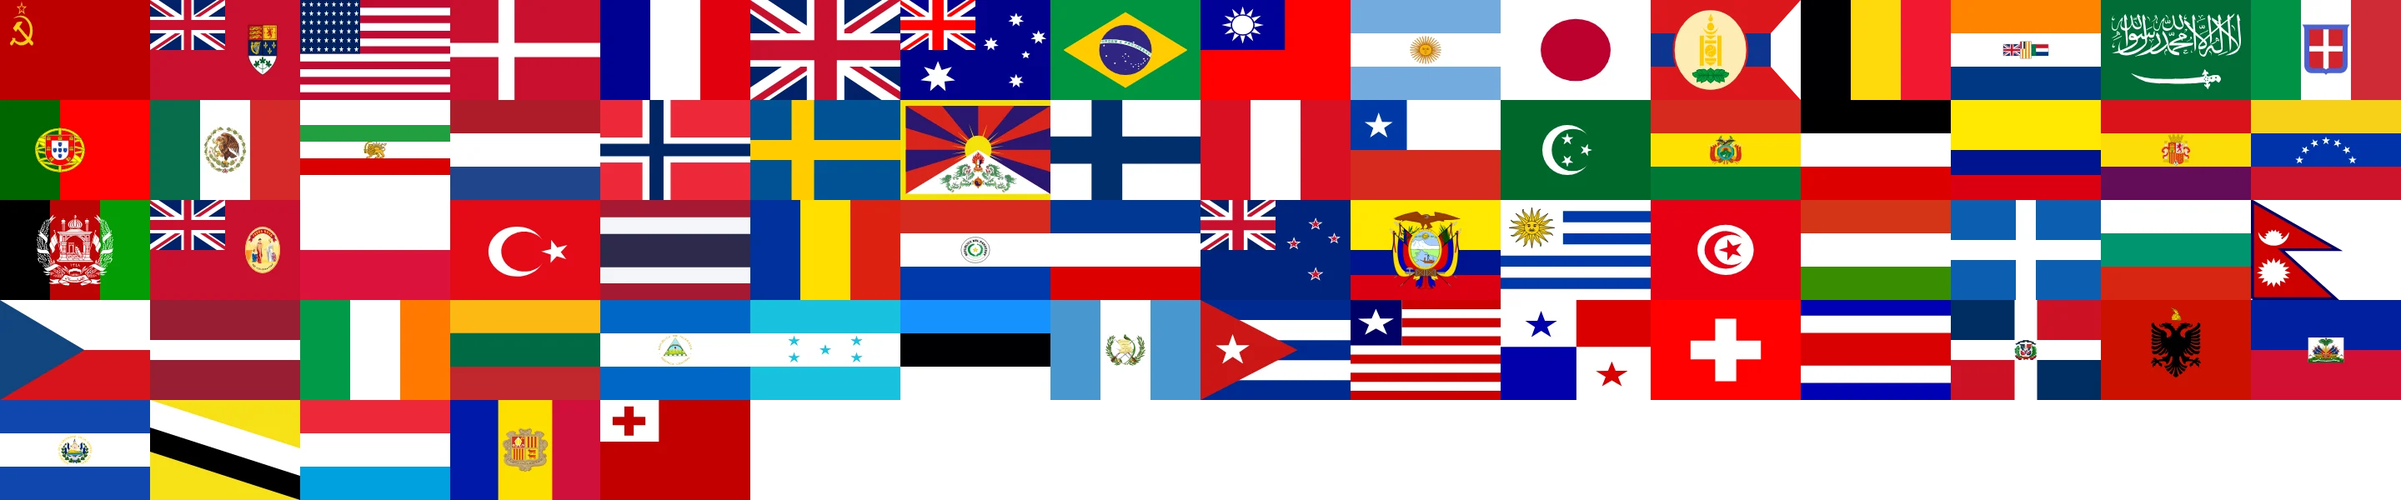
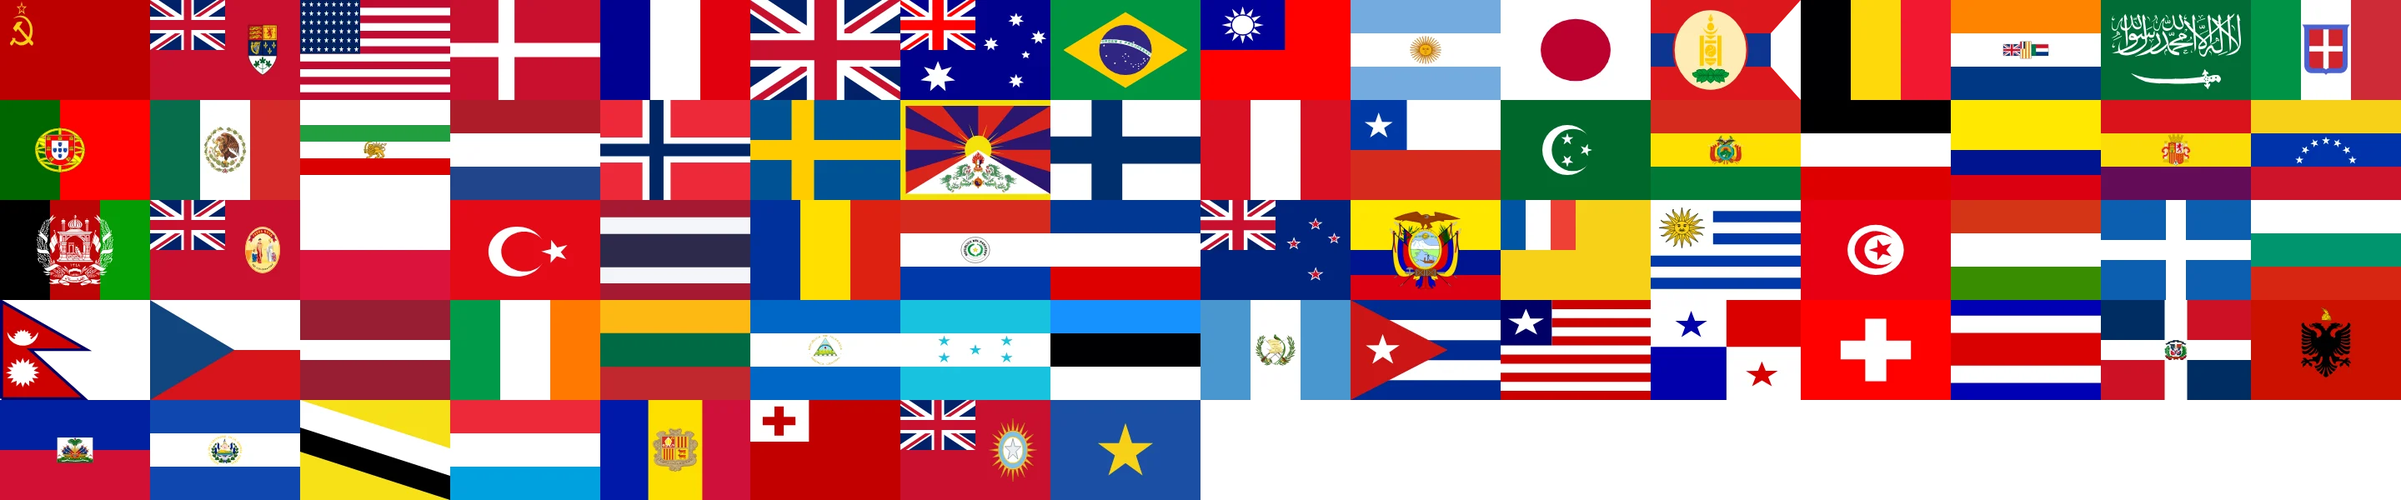
Step 7B (in progress): colonial flags (Star of India ensign, Belgian Congo, French Indochina) for major colonies
Claude-Session: https://claude.ai/code/session_01KnPNvm9AMM9PeVirsmCVhy

diff --git a/js/flag-index.js b/js/flag-index.js
@@ -2,8 +2,10 @@
  * flag-index.js — GENERATED by tools/build-flags.mjs; do not edit.
  *
  * Per era: nation name → tile in assets/flags-<era>.webp (a number), or
- * [tile, 1] when the nation flies its sovereign's flag (colonies). Nations
- * not listed have no known flag for that date and get a heraldic shield.
+ * [tile, 1] when the nation flies its sovereign's flag (colonies), [tile, 2]
+ * when it flies its own colonial flag. `colonies`: colonies that are part of
+ * their sovereign on the map → tile of their colonial flag (js/colonies.js).
+ * Nations not listed have no known flag for that date and get a heraldic shield.
  */
 
-export const FLAG_INDEX = {"rome":{"cols":16,"tileW":180,"tileH":120,"nations":{"Roman Empire":0,"Han Empire":1}},"medieval":{"cols":16,"tileW":180,"tileH":120,"nations":{"Holy Roman Empire":0,"Hungary":1,"Kingdom of France":2,"Angevin Empire":3,"Scotland":4,"León":5,"Portugal":6,"Burgundy":7,"Denmark":8,"Castilla":9,"Aragón":10,"Papal States":11,"Venice":12}},"ww1":{"cols":16,"tileW":180,"tileH":120,"nations":{"Russian Empire":0,"Canada":1,"United States":2,"United Kingdom of Great Britain and Ireland":3,"Denmark":4,"French Republic":5,"Republic of China":6,"Australia":7,"Brazil":8,"German Empire":9,"Argentina":10,"Mongolia":11,"Ottoman Empire":12,"Belgium":13,"Kingdom of Italy":14,"Portugal":15,"Mexico":16,"Persia":17,"Arabia (Nejd)":18,"Norway":19,"Netherlands Indies":[20,1],"Sweden":21,"Peru":22,"Finland":[0,1],"Austro-Hungarian Empire":23,"Bolivia":24,"Abyssinia":25,"Colombia":26,"Chile":27,"Venezuela":28,"Empire of Japan":29,"Spain":30,"Afghanistan":31,"Rattanakosin Kingdom":32,"Morocco":33,"Paraguay":34,"Papua New Guinea":[7,1],"New Zealand":35,"Iceland":[4,1],"Malaya":[3,1],"Romania":36,"Uganda":[3,1],"Ecuador":37,"Bulgaria":38,"Uruguay":39,"Guyana":[3,1],"Tunisia":40,"Philippines":[2,1],"Rio De Oro":[30,1],"Nepal":41,"Serbia":42,"Suriname":[20,1],"Greece":43,"Azerbaijan":[0,1],"Nicaragua":44,"Georgia":[0,1],"Honduras":45,"Guatemala":46,"Cuba":47,"Liberia":48,"French Guiana":[5,1],"Netherlands":20,"Panama":49,"Switzerland":50,"Sierra Leone":[3,1],"Ceylon":[3,1],"Costa Rica":51,"Armenia":[0,1],"Spanish Morocco":[30,1],"Albania":52,"Dominican Republic":53,"Lesotho":[3,1],"Portuguese Guinea":[15,1],"Montenegro":54,"Belize":[3,1],"Equatorial Guinea":[30,1],"Swaziland":[3,1],"Haiti":55,"El Salvador":56,"Fiji":[3,1],"Puerto Rico":[2,1],"Gambia, The":[3,1],"Luxembourg":57,"Samoa":[9,1],"Martinique":[5,1],"Guadeloupe":[5,1],"Dominica":[3,1],"Netherlands Antilles":[20,1],"Barbados":[3,1],"Malta":[3,1],"Saint Lucia":[3,1],"Saint Vincent and the Grenadines":[3,1],"Niue":[35,1],"Antigua and Barbuda":[3,1],"Grenada":[3,1],"United States Virgin Islands":[4,1],"Saint Kitts and Nevis":[3,1],"Tonga":58,"American Samoa":[2,1],"Montserrat":[3,1],"Anguilla":[3,1],"Saint Martin":[5,1],"Saint Barthelemy":[5,1],"Wallis and Futuna Islands":[5,1]}},"ww2":{"cols":16,"tileW":180,"tileH":120,"nations":{"Soviet Union":0,"Canada":1,"United States":2,"Denmark":3,"France":4,"United Kingdom":5,"Australia":6,"Brazil":7,"Republic of China":8,"Argentina":9,"Empire of Japan":10,"Mongolia":11,"Sudan":[5,1],"Belgium":12,"Union of South Africa":13,"Saudi Arabia":14,"Kingdom of Italy":15,"Portugal":16,"Mexico":17,"Iran":18,"Libya":[15,1],"Netherlands":19,"Norway":20,"Sweden":21,"Tibet":22,"Finland":23,"Peru":24,"Chile":25,"Egypt":26,"Bolivia":27,"German Reich":28,"Colombia":29,"Spain":30,"Venezuela":31,"Afghanistan":32,"Dominion of Newfoundland":33,"Poland":34,"Turkey":35,"Kingdom of Siam":36,"Romania":37,"Paraguay":38,"Yugoslavia":39,"New Zealand":40,"Ecuador":41,"Laos":[4,1],"Uruguay":42,"Guyana":[5,1],"Tunisia":43,"Hungary":44,"Greece":45,"Bulgaria":46,"Nepal":47,"Czechoslovakia":48,"Latvia":49,"Ireland":50,"Suriname":[19,1],"Lithuania":51,"Nicaragua":52,"Trucial Oman":[5,1],"Honduras":53,"Malawi":[5,1],"Estonia":54,"Guatemala":55,"Cuba":56,"Liberia":57,"French Guiana":[4,1],"Panama":58,"Switzerland":59,"Ceylon":[5,1],"Togo":[4,1],"Costa Rica":60,"Dominican Republic":61,"Albania":62,"Israel":[5,1],"Burundi":[12,1],"Guinea-Bissau":[16,1],"Haiti":63,"French Somaliland":[4,1],"Belize":[5,1],"El Salvador":64,"Fiji":[5,1],"Puerto Rico":[2,1],"Brunei":65,"Gambia, The":[5,1],"Jamaica":[5,1],"Luxembourg":66,"Trinidad":[5,1],"Samoa":[40,1],"Bahamas":[5,1],"Martinique":[4,1],"Guadeloupe":[4,1],"Dominica":[5,1],"Netherlands Antilles":[19,1],"Andorra":67,"Barbados":[5,1],"Saint Lucia":[5,1],"Saint Vincent and the Grenadines":[5,1],"Niue":[40,1],"Antigua and Barbuda":[5,1],"Grenada":[5,1],"United States Virgin Islands":[2,1],"Saint Kitts and Nevis":[5,1],"Tonga":68,"American Samoa":[2,1],"Turks and Caicos Islands":[5,1],"Montserrat":[5,1],"Anguilla":[5,1],"Saint Martin":[4,1],"Saint Barthelemy":[4,1],"Wallis and Futuna Islands":[4,1]}},"coldwar":{"cols":16,"tileW":180,"tileH":120,"nations":{"Soviet Union":0,"Canada":1,"United States":2,"Greenland":[3,1],"People's Republic of China":4,"Australia":5,"Brazil":6,"Argentina":7,"India":8,"Mongolia":9,"Algeria":[10,1],"Sudan":11,"Republic of the Congo (Léopoldville)":12,"Saudi Arabia":13,"Mexico":14,"Iran":15,"Libya":16,"Norway":17,"Indonesia":18,"South Africa":19,"Sweden":20,"Tibet":21,"Mali":22,"Chad":23,"Peru":24,"Angola":[25,1],"Niger":26,"Finland":27,"Chile":28,"Egypt":29,"Pakistan":30,"Turkey":31,"Bolivia":32,"Ethiopia":33,"Colombia":34,"Mauritania":35,"France":10,"Tanganyika":[36,1],"Venezuela":37,"Nigeria":38,"Namibia":[19,1],"Afghanistan":39,"Mozambique":[25,1],"Zambia":[36,1],"Spain":40,"Burma":41,"Poland":42,"Botswana":[36,1],"Madagascar":43,"Somalia":44,"Central African Republic":45,"Kenya":[36,1],"Iraq":46,"Thailand":47,"Morocco":48,"Japan":49,"Federal Republic of Germany":50,"Cameroon":51,"United Kingdom":36,"Paraguay":52,"Italy":53,"Zimbabwe":[36,1],"Papua New Guinea":[5,1],"Yugoslavia":54,"Romania":55,"Yemen":56,"Iceland":57,"New Zealand":58,"Vietnam":59,"Oman":60,"Malaysia":61,"Republic of the Congo (Brazzaville)":62,"Ivory Coast":63,"Western Sahara":[40,1],"Burkina Faso":64,"Gabon":65,"Syria":29,"Guinea":66,"Ecuador":67,"Laos":68,"German Democratic Republic":69,"Czechoslovakia":70,"Ghana":71,"Uganda":[36,1],"Senegal":22,"Uruguay":72,"Guyana":[36,1],"Tunisia":73,"Philippines":74,"Bulgaria":75,"North Korea":76,"Cambodia":77,"Nepal":78,"Hungary":79,"Austria":80,"Suriname":[81,1],"Ireland":82,"Greece":83,"South Korea":84,"Eritrea":85,"Portugal":25,"Nicaragua":86,"Honduras":87,"Malawi":[36,1],"United Arab Emirates":[36,1],"Benin":88,"Jordan":89,"Guatemala":90,"Cuba":91,"Liberia":92,"Netherlands":81,"French Guiana":[10,1],"Panama":93,"Switzerland":94,"Sierra Leone":[36,1],"Belgium":95,"Togo":96,"Sri Lanka":97,"Costa Rica":98,"Albania":99,"Israel":100,"Dominican Republic":101,"Bhutan":102,"Republic of China (Taiwan)":103,"Lesotho":[36,1],"Denmark":3,"Guinea-Bissau":[25,1],"Burundi":[95,1],"Rwanda":[95,1],"Djibouti":[10,1],"Belize":[36,1],"Equatorial Guinea":[40,1],"Kuwait":104,"Swaziland":[36,1],"Haiti":105,"El Salvador":106,"Lebanon":107,"Fiji":[36,1],"Cyprus":108,"Puerto Rico":109,"Brunei":110,"Gambia, The":[36,1],"Jamaica":[36,1],"Luxembourg":111,"Trinidad":[36,1],"Samoa":112,"Bahamas":[36,1],"Andorra":113,"Niue":[58,1],"Tonga":114,"American Samoa":115,"Turks and Caicos Islands":[36,1],"Wallis and Futuna Islands":[10,1]}},"modern":{"cols":16,"tileW":180,"tileH":120,"nations":{"Russia":0,"Canada":1,"United States of America":2,"Denmark":3,"China":4,"Australia":5,"Brazil":6,"Kazakhstan":7,"Argentina":8,"India":9,"Mongolia":10,"Algeria":11,"Democratic Republic of the Congo":12,"Mexico":13,"Saudi Arabia":14,"Iran":15,"Sudan":16,"Libya":17,"Norway":18,"Indonesia":19,"South Africa":20,"Sweden":21,"Mali":22,"Chad":23,"Peru":24,"Angola":25,"Niger":26,"Finland":27,"Egypt":28,"Turkey":29,"Bolivia":30,"Mauritania":31,"Ethiopia":32,"Colombia":33,"Ukraine":34,"France":35,"Pakistan":36,"Chile":37,"United Republic of Tanzania":38,"Namibia":39,"Nigeria":40,"Venezuela":41,"Afghanistan":42,"Mozambique":43,"Zambia":44,"Spain":45,"Morocco":46,"Germany":47,"Myanmar":48,"Uzbekistan":49,"Turkmenistan":50,"Poland":51,"Botswana":52,"Madagascar":53,"South Sudan":54,"Central African Republic":55,"United Kingdom":56,"Kenya":57,"Iraq":58,"Thailand":59,"Japan":60,"Italy":61,"Yemen":62,"Somalia":63,"Belarus":64,"Cameroon":65,"Papua New Guinea":66,"Paraguay":67,"New Zealand":68,"Zimbabwe":69,"Romania":70,"Iceland":71,"Vietnam":72,"Republic of the Congo":73,"Oman":74,"Malaysia":75,"Ivory Coast":76,"Kyrgyzstan":77,"Philippines":78,"Burkina Faso":79,"Gabon":80,"Syria":81,"Ecuador":82,"Guinea":83,"Laos":84,"Ghana":85,"Uganda":86,"Uruguay":87,"Tunisia":88,"Guyana":89,"Tajikistan":90,"Senegal":91,"Cambodia":92,"North Korea":93,"Greece":94,"Bulgaria":95,"Nepal":96,"Hungary":97,"Somaliland":98,"Latvia":99,"Austria":100,"Lithuania":101,"Czechia":102,"Ireland":103,"Bangladesh":104,"Suriname":105,"South Korea":106,"Portugal":107,"Nicaragua":108,"Azerbaijan":109,"Republic of Serbia":110,"Eritrea":111,"Estonia":112,"Malawi":113,"Cuba":114,"Benin":115,"Honduras":116,"Guatemala":117,"Jordan":118,"Georgia":119,"Western Sahara":120,"Liberia":121,"Slovakia":122,"Croatia":123,"Bosnia and Herzegovina":124,"United Arab Emirates":125,"Netherlands":126,"Panama":127,"Switzerland":128,"Sierra Leone":129,"Sri Lanka":130,"Belgium":131,"Moldova":132,"Togo":133,"Costa Rica":134,"Dominican Republic":135,"Bhutan":136,"Armenia":137,"Albania":138,"Taiwan":139,"North Macedonia":140,"Lesotho":141,"Israel":142,"Slovenia":143,"Guinea-Bissau":144,"Haiti":145,"Burundi":146,"Equatorial Guinea":147,"Rwanda":148,"Belize":149,"Solomon Islands":150,"Djibouti":151,"Montenegro":152,"Kuwait":153,"El Salvador":154,"eSwatini":155,"Fiji":156,"Kosovo":157,"East Timor":158,"Lebanon":159,"Qatar":160,"Jamaica":161,"The Bahamas":162,"Gambia":163,"Vanuatu":164,"Cyprus":165,"Brunei":166,"Luxembourg":167,"Trinidad and Tobago":168,"Northern Cyprus":169,"Samoa":170,"Cabo Verde":171,"Mauritius":172,"Comoros":173,"São Tomé and Principe":174,"Dominica":175,"Saint Lucia":176,"Andorra":177,"Tonga":178,"Malta":179,"Singapore":180,"Barbados":181,"Palau":182,"Antigua and Barbuda":183,"Federated States of Micronesia":184,"Grenada":185,"Liechtenstein":186,"Saint Vincent and the Grenadines":187,"Seychelles":188,"Bahrain":189,"Saint Kitts and Nevis":190,"Kiribati":191,"San Marino":192,"Marshall Islands":193,"Nauru":194,"Maldives":195,"Monaco":196,"Tuvalu":197,"Vatican":198}}};
+export const FLAG_INDEX = {"rome":{"cols":16,"tileW":180,"tileH":120,"nations":{"Roman Empire":0,"Han Empire":1},"colonies":{}},"medieval":{"cols":16,"tileW":180,"tileH":120,"nations":{"Holy Roman Empire":0,"Hungary":1,"Kingdom of France":2,"Angevin Empire":3,"Scotland":4,"León":5,"Portugal":6,"Burgundy":7,"Denmark":8,"Castilla":9,"Aragón":10,"Papal States":11,"Venice":12},"colonies":{}},"ww1":{"cols":16,"tileW":180,"tileH":120,"nations":{"Russian Empire":0,"Canada":1,"United States":2,"United Kingdom of Great Britain and Ireland":3,"Denmark":4,"French Republic":5,"Republic of China":6,"Australia":7,"Brazil":8,"German Empire":9,"Argentina":10,"Mongolia":11,"Ottoman Empire":12,"Belgium":13,"Kingdom of Italy":14,"Portugal":15,"Mexico":16,"Persia":17,"Arabia (Nejd)":18,"Norway":19,"Netherlands Indies":[20,1],"Sweden":21,"Peru":22,"Finland":[0,1],"Austro-Hungarian Empire":23,"Bolivia":24,"Abyssinia":25,"Colombia":26,"Chile":27,"Venezuela":28,"Empire of Japan":29,"Spain":30,"Afghanistan":31,"Rattanakosin Kingdom":32,"Morocco":33,"Paraguay":34,"Papua New Guinea":[7,1],"New Zealand":35,"Iceland":[4,1],"Malaya":[3,1],"Romania":36,"Uganda":[3,1],"Ecuador":37,"Bulgaria":38,"Uruguay":39,"Guyana":[3,1],"Tunisia":40,"Philippines":[2,1],"Rio De Oro":[30,1],"Nepal":41,"Serbia":42,"Suriname":[20,1],"Greece":43,"Azerbaijan":[0,1],"Nicaragua":44,"Georgia":[0,1],"Honduras":45,"Guatemala":46,"Cuba":47,"Liberia":48,"French Guiana":[5,1],"Netherlands":20,"Panama":49,"Switzerland":50,"Sierra Leone":[3,1],"Ceylon":[3,1],"Costa Rica":51,"Armenia":[0,1],"Spanish Morocco":[30,1],"Albania":52,"Dominican Republic":53,"Lesotho":[3,1],"Portuguese Guinea":[15,1],"Montenegro":54,"Belize":[3,1],"Equatorial Guinea":[30,1],"Swaziland":[3,1],"Haiti":55,"El Salvador":56,"Fiji":[3,1],"Puerto Rico":[2,1],"Gambia, The":[3,1],"Luxembourg":57,"Samoa":[9,1],"Martinique":[5,1],"Guadeloupe":[5,1],"Dominica":[3,1],"Netherlands Antilles":[20,1],"Barbados":[3,1],"Malta":[3,1],"Saint Lucia":[3,1],"Saint Vincent and the Grenadines":[3,1],"Niue":[35,1],"Antigua and Barbuda":[3,1],"Grenada":[3,1],"United States Virgin Islands":[4,1],"Saint Kitts and Nevis":[3,1],"Tonga":58,"American Samoa":[2,1],"Montserrat":[3,1],"Anguilla":[3,1],"Saint Martin":[5,1],"Saint Barthelemy":[5,1],"Wallis and Futuna Islands":[5,1]},"colonies":{"British India":59,"Belgian Congo":60}},"ww2":{"cols":16,"tileW":180,"tileH":120,"nations":{"Soviet Union":0,"Canada":1,"United States":2,"Denmark":3,"France":4,"United Kingdom":5,"Australia":6,"Brazil":7,"Republic of China":8,"Argentina":9,"Empire of Japan":10,"Mongolia":11,"Sudan":[5,1],"Belgium":12,"Union of South Africa":13,"Saudi Arabia":14,"Kingdom of Italy":15,"Portugal":16,"Mexico":17,"Iran":18,"Libya":[15,1],"Netherlands":19,"Norway":20,"Sweden":21,"Tibet":22,"Finland":23,"Peru":24,"Chile":25,"Egypt":26,"Bolivia":27,"German Reich":28,"Colombia":29,"Spain":30,"Venezuela":31,"Afghanistan":32,"Dominion of Newfoundland":33,"Poland":34,"Turkey":35,"Kingdom of Siam":36,"Romania":37,"Paraguay":38,"Yugoslavia":39,"New Zealand":40,"Ecuador":41,"Laos":[42,2],"Uruguay":43,"Guyana":[5,1],"Tunisia":44,"Hungary":45,"Greece":46,"Bulgaria":47,"Nepal":48,"Czechoslovakia":49,"Latvia":50,"Ireland":51,"Suriname":[19,1],"Lithuania":52,"Nicaragua":53,"Trucial Oman":[5,1],"Honduras":54,"Malawi":[5,1],"Estonia":55,"Guatemala":56,"Cuba":57,"Liberia":58,"French Guiana":[4,1],"Panama":59,"Switzerland":60,"Ceylon":[5,1],"Togo":[4,1],"Costa Rica":61,"Dominican Republic":62,"Albania":63,"Israel":[5,1],"Burundi":[12,1],"Guinea-Bissau":[16,1],"Haiti":64,"French Somaliland":[4,1],"Belize":[5,1],"El Salvador":65,"Fiji":[5,1],"Puerto Rico":[2,1],"Brunei":66,"Gambia, The":[5,1],"Jamaica":[5,1],"Luxembourg":67,"Trinidad":[5,1],"Samoa":[40,1],"Bahamas":[5,1],"Martinique":[4,1],"Guadeloupe":[4,1],"Dominica":[5,1],"Netherlands Antilles":[19,1],"Andorra":68,"Barbados":[5,1],"Saint Lucia":[5,1],"Saint Vincent and the Grenadines":[5,1],"Niue":[40,1],"Antigua and Barbuda":[5,1],"Grenada":[5,1],"United States Virgin Islands":[2,1],"Saint Kitts and Nevis":[5,1],"Tonga":69,"American Samoa":[2,1],"Turks and Caicos Islands":[5,1],"Montserrat":[5,1],"Anguilla":[5,1],"Saint Martin":[4,1],"Saint Barthelemy":[4,1],"Wallis and Futuna Islands":[4,1]},"colonies":{"British India":70,"Belgian Congo":71}},"coldwar":{"cols":16,"tileW":180,"tileH":120,"nations":{"Soviet Union":0,"Canada":1,"United States":2,"Greenland":[3,1],"People's Republic of China":4,"Australia":5,"Brazil":6,"Argentina":7,"India":8,"Mongolia":9,"Algeria":[10,1],"Sudan":11,"Republic of the Congo (Léopoldville)":12,"Saudi Arabia":13,"Mexico":14,"Iran":15,"Libya":16,"Norway":17,"Indonesia":18,"South Africa":19,"Sweden":20,"Tibet":21,"Mali":22,"Chad":23,"Peru":24,"Angola":[25,1],"Niger":26,"Finland":27,"Chile":28,"Egypt":29,"Pakistan":30,"Turkey":31,"Bolivia":32,"Ethiopia":33,"Colombia":34,"Mauritania":35,"France":10,"Tanganyika":[36,1],"Venezuela":37,"Nigeria":38,"Namibia":[19,1],"Afghanistan":39,"Mozambique":[25,1],"Zambia":[36,1],"Spain":40,"Burma":41,"Poland":42,"Botswana":[36,1],"Madagascar":43,"Somalia":44,"Central African Republic":45,"Kenya":[36,1],"Iraq":46,"Thailand":47,"Morocco":48,"Japan":49,"Federal Republic of Germany":50,"Cameroon":51,"United Kingdom":36,"Paraguay":52,"Italy":53,"Zimbabwe":[36,1],"Papua New Guinea":[5,1],"Yugoslavia":54,"Romania":55,"Yemen":56,"Iceland":57,"New Zealand":58,"Vietnam":59,"Oman":60,"Malaysia":61,"Republic of the Congo (Brazzaville)":62,"Ivory Coast":63,"Western Sahara":[40,1],"Burkina Faso":64,"Gabon":65,"Syria":29,"Guinea":66,"Ecuador":67,"Laos":68,"German Democratic Republic":69,"Czechoslovakia":70,"Ghana":71,"Uganda":[36,1],"Senegal":22,"Uruguay":72,"Guyana":[36,1],"Tunisia":73,"Philippines":74,"Bulgaria":75,"North Korea":76,"Cambodia":77,"Nepal":78,"Hungary":79,"Austria":80,"Suriname":[81,1],"Ireland":82,"Greece":83,"South Korea":84,"Eritrea":85,"Portugal":25,"Nicaragua":86,"Honduras":87,"Malawi":[36,1],"United Arab Emirates":[36,1],"Benin":88,"Jordan":89,"Guatemala":90,"Cuba":91,"Liberia":92,"Netherlands":81,"French Guiana":[10,1],"Panama":93,"Switzerland":94,"Sierra Leone":[36,1],"Belgium":95,"Togo":96,"Sri Lanka":97,"Costa Rica":98,"Albania":99,"Israel":100,"Dominican Republic":101,"Bhutan":102,"Republic of China (Taiwan)":103,"Lesotho":[36,1],"Denmark":3,"Guinea-Bissau":[25,1],"Burundi":[95,1],"Rwanda":[95,1],"Djibouti":[10,1],"Belize":[36,1],"Equatorial Guinea":[40,1],"Kuwait":104,"Swaziland":[36,1],"Haiti":105,"El Salvador":106,"Lebanon":107,"Fiji":[36,1],"Cyprus":108,"Puerto Rico":109,"Brunei":110,"Gambia, The":[36,1],"Jamaica":[36,1],"Luxembourg":111,"Trinidad":[36,1],"Samoa":112,"Bahamas":[36,1],"Andorra":113,"Niue":[58,1],"Tonga":114,"American Samoa":115,"Turks and Caicos Islands":[36,1],"Wallis and Futuna Islands":[10,1]},"colonies":{}},"modern":{"cols":16,"tileW":180,"tileH":120,"nations":{"Russia":0,"Canada":1,"United States of America":2,"Denmark":3,"China":4,"Australia":5,"Brazil":6,"Kazakhstan":7,"Argentina":8,"India":9,"Mongolia":10,"Algeria":11,"Democratic Republic of the Congo":12,"Mexico":13,"Saudi Arabia":14,"Iran":15,"Sudan":16,"Libya":17,"Norway":18,"Indonesia":19,"South Africa":20,"Sweden":21,"Mali":22,"Chad":23,"Peru":24,"Angola":25,"Niger":26,"Finland":27,"Egypt":28,"Turkey":29,"Bolivia":30,"Mauritania":31,"Ethiopia":32,"Colombia":33,"Ukraine":34,"France":35,"Pakistan":36,"Chile":37,"United Republic of Tanzania":38,"Namibia":39,"Nigeria":40,"Venezuela":41,"Afghanistan":42,"Mozambique":43,"Zambia":44,"Spain":45,"Morocco":46,"Germany":47,"Myanmar":48,"Uzbekistan":49,"Turkmenistan":50,"Poland":51,"Botswana":52,"Madagascar":53,"South Sudan":54,"Central African Republic":55,"United Kingdom":56,"Kenya":57,"Iraq":58,"Thailand":59,"Japan":60,"Italy":61,"Yemen":62,"Somalia":63,"Belarus":64,"Cameroon":65,"Papua New Guinea":66,"Paraguay":67,"New Zealand":68,"Zimbabwe":69,"Romania":70,"Iceland":71,"Vietnam":72,"Republic of the Congo":73,"Oman":74,"Malaysia":75,"Ivory Coast":76,"Kyrgyzstan":77,"Philippines":78,"Burkina Faso":79,"Gabon":80,"Syria":81,"Ecuador":82,"Guinea":83,"Laos":84,"Ghana":85,"Uganda":86,"Uruguay":87,"Tunisia":88,"Guyana":89,"Tajikistan":90,"Senegal":91,"Cambodia":92,"North Korea":93,"Greece":94,"Bulgaria":95,"Nepal":96,"Hungary":97,"Somaliland":98,"Latvia":99,"Austria":100,"Lithuania":101,"Czechia":102,"Ireland":103,"Bangladesh":104,"Suriname":105,"South Korea":106,"Portugal":107,"Nicaragua":108,"Azerbaijan":109,"Republic of Serbia":110,"Eritrea":111,"Estonia":112,"Malawi":113,"Cuba":114,"Benin":115,"Honduras":116,"Guatemala":117,"Jordan":118,"Georgia":119,"Western Sahara":120,"Liberia":121,"Slovakia":122,"Croatia":123,"Bosnia and Herzegovina":124,"United Arab Emirates":125,"Netherlands":126,"Panama":127,"Switzerland":128,"Sierra Leone":129,"Sri Lanka":130,"Belgium":131,"Moldova":132,"Togo":133,"Costa Rica":134,"Dominican Republic":135,"Bhutan":136,"Armenia":137,"Albania":138,"Taiwan":139,"North Macedonia":140,"Lesotho":141,"Israel":142,"Slovenia":143,"Guinea-Bissau":144,"Haiti":145,"Burundi":146,"Equatorial Guinea":147,"Rwanda":148,"Belize":149,"Solomon Islands":150,"Djibouti":151,"Montenegro":152,"Kuwait":153,"El Salvador":154,"eSwatini":155,"Fiji":156,"Kosovo":157,"East Timor":158,"Lebanon":159,"Qatar":160,"Jamaica":161,"The Bahamas":162,"Gambia":163,"Vanuatu":164,"Cyprus":165,"Brunei":166,"Luxembourg":167,"Trinidad and Tobago":168,"Northern Cyprus":169,"Samoa":170,"Cabo Verde":171,"Mauritius":172,"Comoros":173,"São Tomé and Principe":174,"Dominica":175,"Saint Lucia":176,"Andorra":177,"Tonga":178,"Malta":179,"Singapore":180,"Barbados":181,"Palau":182,"Antigua and Barbuda":183,"Federated States of Micronesia":184,"Grenada":185,"Liechtenstein":186,"Saint Vincent and the Grenadines":187,"Seychelles":188,"Bahrain":189,"Saint Kitts and Nevis":190,"Kiribati":191,"San Marino":192,"Marshall Islands":193,"Nauru":194,"Maldives":195,"Monaco":196,"Tuvalu":197,"Vatican":198},"colonies":{}}};

diff --git a/js/colonies.js b/js/colonies.js
@@ -1,0 +1,59 @@
+/**
+ * colonies.js — Major colonies that are part of their sovereign on the map
+ * (step 7B). Their provinces (inside the box, held by the sovereign when the
+ * era starts) fly the colony's own flag or ensign instead of the ruler's:
+ * the province panel shows it, and so do the sovereign's garrisons there and
+ * armies raised there. If the land changes hands, the new owner's flag shows.
+ *
+ * Boxes are [west, south, east, north] in degrees. The flags themselves are
+ * tiles in the era's flag sheet (FLAG_INDEX[era].colonies, tools/build-flags.mjs).
+ */
+
+import { FLAG_INDEX } from './flag-index.js';
+import { unproject } from './projection.js';
+
+export const COLONIES = {
+  ww1: [
+    // British India still included Burma in 1914.
+    { name: 'British India', sovereign: 'United Kingdom of Great Britain and Ireland', boxes: [[60, 5, 101, 37.5]] },
+    { name: 'Belgian Congo', sovereign: 'Belgium', boxes: [[11, -14, 32, 6]] },
+  ],
+  ww2: [
+    // Burma was split off in 1937: British India ends at Bengal.
+    { name: 'British India', sovereign: 'United Kingdom', boxes: [[60, 5, 92.7, 37.5]] },
+    { name: 'Belgian Congo', sovereign: 'Belgium', boxes: [[11, -14, 32, 6]] },
+  ],
+};
+
+/**
+ * Tag a world map's provinces with their colony: map.colonies[i] =
+ * { id, name, sovereign (nation id), flag }, and p.colony = i (or absent).
+ */
+export function assignColonies(map, eraId) {
+  map.colonies = [];
+  const tiles = FLAG_INDEX[eraId]?.colonies ?? {};
+  for (const def of COLONIES[eraId] ?? []) {
+    const sov = map.nations.find((n) => n.name === def.sovereign);
+    if (!sov || tiles[def.name] == null) continue;
+    const id = map.colonies.length;
+    const colony = { id, name: def.name, sovereign: sov.id, flag: { era: eraId, real: tiles[def.name] } };
+    let count = 0;
+    for (const p of map.provinces) {
+      if (p.owner !== sov.id) continue;
+      const g = unproject(p.center.x, p.center.y);
+      if (def.boxes.some(([w, s, e, n]) => g.lon >= w && g.lon <= e && g.lat >= s && g.lat <= n)) { p.colony = id; count++; }
+    }
+    if (count) map.colonies.push(colony);
+  }
+}
+
+/** The colony a province belongs to while its sovereign holds it, or null. */
+export function colonyOf(map, p) {
+  const c = p?.colony != null ? map?.colonies?.[p.colony] : null;
+  return c && p.owner === c.sovereign ? c : null;
+}
+
+/** The flag a province flies: its colony's while the sovereign holds it, else its owner's. */
+export function provinceFlag(map, p) {
+  return colonyOf(map, p)?.flag ?? map?.nations[p?.owner]?.flag ?? null;
+}

diff --git a/js/render-units.js b/js/render-units.js
@@ -12,6 +12,9 @@ import { fmtHours } from './ui-kit.js';
 import { drawIcon, unitIcon } from './icons.js';
 import { drawFlag, flagsVersion } from './flags.js';
 
+/** The colony an army flies the flag of (raised or garrisoned there, still serving its sovereign), or null. */
+const armyColony = (map, a) => { const c = a.colony != null ? map.colonies?.[a.colony] : null; return c && c.sovereign === a.nation ? c : null; };
+
 /** Marker radius, gap between stacked markers, and how far markers float above their spot. */
 const R = 14, GAP = 5;
 const LIFT = 26;
@@ -315,6 +318,7 @@ export function drawForces(r) {
     const role = a.kind === 'naval' ? 'nav' : A.mainRole(a);
     drawMarker(r, x, y, R, {
       icon: unitIcon(eraId, role), nation: st.map.nations[a.nation], own: a.nation === player,
+      colony: armyColony(st.map, a),
       hostile: C.atWar(player, a.nation), selected: a.id === sel || !!group?.has(a.id),
       count: a.units.length, strength: A.strength(a), retreating: a.retreating,
     });
@@ -389,7 +393,7 @@ function drawMarker(r, x, y, rad, o) {
   const state = o.selected ? 'sel' : o.hostile ? 'host' : o.own ? 'own' : 'other';
   const pad = 7;
   const S = (rad + pad) * 2;
-  const sprite = r.fx.sprite(`mk|${o.icon}|${o.nation?.id}|${state}|${rad}|${!!o.stack}|${flagsVersion()}`, S, S, (g) => {
+  const sprite = r.fx.sprite(`mk|${o.icon}|${o.nation?.id}|${o.colony?.id ?? ''}|${state}|${rad}|${!!o.stack}|${flagsVersion()}`, S, S, (g) => {
     const m = S / 2;
     if (state === 'sel' || state === 'host' || state === 'own') {
       const glow = state === 'sel' ? '255,213,74' : state === 'host' ? '255,70,50' : '255,255,255';
@@ -435,10 +439,10 @@ function drawMarker(r, x, y, rad, o) {
     g.fillStyle = 'rgba(255,255,255,0.12)';
     g.fill();
     drawIcon(g, o.icon, m, m, rad * 1.36, '#ffffff');
-    // The nation's flag, small, on the upper left of the ring.
+    // The nation's flag (or its colony's), small, on the upper left of the ring.
     if (o.nation) {
       const fw = rad * 0.95, fh = fw * 2 / 3;
-      drawFlag(g, o.nation.flag, m - rad - 1, m - rad - 1, fw, fh);
+      drawFlag(g, o.colony?.flag ?? o.nation.flag, m - rad - 1, m - rad - 1, fw, fh);
     }
   });
   ctx.drawImage(sprite, x - S / 2, y - S / 2, S, S);

diff --git a/js/ui.js b/js/ui.js
@@ -14,6 +14,7 @@
 
 import { TERRAIN, AREA_KM2_PER_UNIT, gridRef, STATURE } from './map.js';
 import { drawFlag } from './flags.js';
+import { colonyOf, provinceFlag } from './colonies.js';
 import { ERAS } from './eras.js';
 
 const $ = (sel, root = document) => root.querySelector(sel);
@@ -353,6 +354,7 @@ export class UI {
 
     const map = state.map;
     const owner = state.getNation(p.owner);
+    const colony = colonyOf(map, p);
     const terrain = TERRAIN[p.terrain];
     const isPlayer = owner && owner.id === state.playerNationId;
     const tags = [
@@ -389,6 +391,7 @@ export class UI {
       <dl class="stats">
         <dt>OWNER</dt>
         <dd class="owner">${ownerHtml}</dd>
+        ${colony ? `<dt>COLONY</dt><dd>${escapeHtml(colony.name.toUpperCase())}</dd>` : ""}
         <dt>TERRAIN</dt>
         <dd><span class="terrain-chip t-${terrain.id}"></span>${terrain.label.toUpperCase()}</dd>
         <dt>CITY</dt>
@@ -405,7 +408,7 @@ export class UI {
       ${this.command ? this.command.provinceHtml(p) : ''}
       <div class="section-title">ADJACENT PROVINCES</div>
       <ul class="neighbor-list">${neighbors || '<li class="empty">None — island province</li>'}</ul>`;
-    if (owner) el.panel.querySelector('.flag-slot').replaceWith(flagCanvas(owner.flag, 24, 16));
+    if (owner) el.panel.querySelector('.flag-slot').replaceWith(flagCanvas(provinceFlag(map, p), 24, 16));
     this.command?.markRendered();
   }
 

diff --git a/js/armies.js b/js/armies.js
@@ -19,6 +19,7 @@
 import { MinHeap, TERRAIN } from './map.js';
 import { unproject } from './projection.js';
 import { rosterFor, makeUnit, levelStats } from './units.js';
+import { colonyOf } from './colonies.js';
 import { UNIT_REQUIREMENT, TRAIN_FACTOR } from './buildings.js';
 
 /** Hours to board or leave transports. */
@@ -366,6 +367,9 @@ export class Armies {
       fresh: !!opts.fresh,
       retreating: false,
     };
+    // Raised or garrisoned in a major colony of its own: flies the colonial flag.
+    const colony = node < this.P ? colonyOf(this.state.map, this.state.map.provinces[node]) : null;
+    if (colony && colony.sovereign === nation) army.colony = colony.id;
     this.list.set(army.id, army);
     if (!this.byNode.has(node)) this.byNode.set(node, new Set());
     this.byNode.get(node).add(army);

diff --git a/js/world.js b/js/world.js
@@ -13,6 +13,7 @@
  */
 
 import { FLAG_INDEX } from './flag-index.js';
+import { assignColonies } from './colonies.js';
 import { vivid } from './palette.js';
 import { graticule, formatLatLon, unproject } from './projection.js';
 
@@ -167,7 +168,7 @@ export function buildWorldMap(data, era) {
 
   const sizes = provinces.map((p) => Math.sqrt(p.area)).sort((a, b) => a - b);
 
-  return {
+  const map = {
     kind: 'world',
     era,
     seed: era.id,
@@ -185,4 +186,7 @@ export function buildWorldMap(data, era) {
     formatCoord: formatLatLon,
     startDate: era.start ?? Date.now(),
   };
+  // Major colonies inside their sovereign fly their own flag (colonies.js).
+  assignColonies(map, era.id);
+  return map;
 }

diff --git a/docs/FLAGS.md b/docs/FLAGS.md
@@ -4,14 +4,14 @@ Generated by `tools/build-flags.mjs`. Every real flag in the game, where it come
 
 ## Per era
 
-| Era | Nations | Own real flag or banner | Sovereign’s flag (colony) | Generated heraldry |
-|---|---|---|---|---|
-| rome | 38 | 2 | 0 | 36 |
-| medieval | 90 | 13 | 0 | 77 |
-| ww1 | 110 | 59 | 45 | 6 |
-| ww2 | 113 | 69 | 41 | 3 |
-| coldwar | 154 | 118 | 35 | 1 |
-| modern | 200 | 199 | 0 | 1 |
+| Era | Nations | Own real flag or banner | Sovereign’s flag (colony) | Colonial flag (colony) | Generated heraldry |
+|---|---|---|---|---|---|
+| rome | 38 | 2 | 0 | 0 | 36 |
+| medieval | 90 | 13 | 0 | 0 | 77 |
+| ww1 | 110 | 59 | 45 | 2 | 6 |
+| ww2 | 113 | 69 | 40 | 3 | 3 |
+| coldwar | 154 | 118 | 35 | 0 | 1 |
+| modern | 200 | 199 | 0 | 0 | 1 |
 
 Nations with no known flag or banner for that date get a generated heraldic shield, drawn so it does not pass for a real flag.
 
@@ -21,7 +21,9 @@ WWII: the German Reich flies the black-white-red tricolour (its 1933–35 nation
 
 - **flag-icons** by Panayiotis Lipiridis, https://github.com/lipis/flag-icons — MIT licence (below).
 - **Wikimedia Commons** files, each with the licence stated on its page (listed below). Most are in the public domain; the few under CC BY-SA or similar keep that licence in the rendered sprite sheets (the tile is an adaptation), with the author and link given below.
-- **Drawn for this game**: Roman vexillum, Han banner, and simple medieval banners of arms (tools/flag-custom.mjs).
+- **Drawn for this game**: Roman vexillum, Han banner, simple medieval banners of arms, and three colonial flags: British India's Star of India ensign (badge simplified: rays, garter and star, without the motto), the Belgian Congo's blue flag with a gold star, French Indochina's yellow flag with the tricolour canton (tools/flag-custom.mjs).
+
+Colonial flags (step 7B): major colonies fly their own colonial flag where one existed: separate colony nations listed above, and colonies that are part of their sovereign on the map (British India and the Belgian Congo in 1914 and 1938), whose provinces, garrisons and locally raised armies show it. Minor colonies keep the ruler's flag.
 
 | Flag | Licence | Author | Used for |
 |---|---|---|---|
@@ -32,6 +34,9 @@ WWII: the German Reich flies the black-white-red tricolour (its 1933–35 nation
 | Drawn for Iron Meridian (tools/flag-custom.mjs) | same as the game |  | medieval: Burgundy |
 | Drawn for Iron Meridian (tools/flag-custom.mjs) | same as the game |  | medieval: Castilla |
 | Drawn for Iron Meridian (tools/flag-custom.mjs) | same as the game |  | medieval: Aragón |
+| Drawn for Iron Meridian (tools/flag-custom.mjs) | same as the game |  | ww1: British India (colonial flag); ww2: British India (colonial flag) |
+| Drawn for Iron Meridian (tools/flag-custom.mjs) | same as the game |  | ww1: Belgian Congo (colonial flag); ww2: Belgian Congo (colonial flag) |
+| Drawn for Iron Meridian (tools/flag-custom.mjs) | same as the game |  | ww2: Laos (colonial flag) |
 | Drawn for Iron Meridian (tools/flag-custom.mjs) | same as the game |  | coldwar: Mali; coldwar: Senegal |
 | flag-icons 7.6.0: ad.svg (Andorra) | MIT |  | ww2: Andorra; coldwar: Andorra; modern: Andorra |
 | flag-icons 7.6.0: ae.svg (United Arab Emirates) | MIT |  | modern: United Arab Emirates |
@@ -93,7 +98,7 @@ WWII: the German Reich flies the black-white-red tricolour (its 1933–35 nation
 | flag-icons 7.6.0: fi.svg (Finland) | MIT |  | ww2: Finland; coldwar: Finland; modern: Finland |
 | flag-icons 7.6.0: fj.svg (Fiji) | MIT |  | modern: Fiji |
 | flag-icons 7.6.0: fm.svg (Federated States of Micronesia) | MIT |  | modern: Federated States of Micronesia |
-| flag-icons 7.6.0: fr.svg (France) | MIT |  | ww1: French Republic; ww1: French Guiana (sovereign’s flag); ww1: Martinique (sovereign’s flag); ww1: Guadeloupe (sovereign’s flag); ww1: Saint Martin (sovereign’s flag); ww1: Saint Barthelemy (sovereign’s flag); ww1: Wallis and Futuna Islands (sovereign’s flag); ww2: France; ww2: Laos (sovereign’s flag); ww2: French Guiana (sovereign’s flag); ww2: Togo (sovereign’s flag); ww2: French Somaliland (sovereign’s flag); ww2: Martinique (sovereign’s flag); ww2: Guadeloupe (sovereign’s flag); ww2: Saint Martin (sovereign’s flag); ww2: Saint Barthelemy (sovereign’s flag); ww2: Wallis and Futuna Islands (sovereign’s flag); coldwar: Algeria (sovereign’s flag); coldwar: France; coldwar: French Guiana (sovereign’s flag); coldwar: Djibouti (sovereign’s flag); coldwar: Wallis and Futuna Islands (sovereign’s flag); modern: France |
+| flag-icons 7.6.0: fr.svg (France) | MIT |  | ww1: French Republic; ww1: French Guiana (sovereign’s flag); ww1: Martinique (sovereign’s flag); ww1: Guadeloupe (sovereign’s flag); ww1: Saint Martin (sovereign’s flag); ww1: Saint Barthelemy (sovereign’s flag); ww1: Wallis and Futuna Islands (sovereign’s flag); ww2: France; ww2: French Guiana (sovereign’s flag); ww2: Togo (sovereign’s flag); ww2: French Somaliland (sovereign’s flag); ww2: Martinique (sovereign’s flag); ww2: Guadeloupe (sovereign’s flag); ww2: Saint Martin (sovereign’s flag); ww2: Saint Barthelemy (sovereign’s flag); ww2: Wallis and Futuna Islands (sovereign’s flag); coldwar: Algeria (sovereign’s flag); coldwar: France; coldwar: French Guiana (sovereign’s flag); coldwar: Djibouti (sovereign’s flag); coldwar: Wallis and Futuna Islands (sovereign’s flag); modern: France |
 | flag-icons 7.6.0: ga.svg (Gabon) | MIT |  | coldwar: Gabon; modern: Gabon |
 | flag-icons 7.6.0: gb.svg (United Kingdom) | MIT |  | ww1: United Kingdom of Great Britain and Ireland; ww1: Malaya (sovereign’s flag); ww1: Uganda (sovereign’s flag); ww1: Guyana (sovereign’s flag); ww1: Sierra Leone (sovereign’s flag); ww1: Ceylon (sovereign’s flag); ww1: Lesotho (sovereign’s flag); ww1: Belize (sovereign’s flag); ww1: Swaziland (sovereign’s flag); ww1: Fiji (sovereign’s flag); ww1: Gambia, The (sovereign’s flag); ww1: Dominica (sovereign’s flag); ww1: Barbados (sovereign’s flag); ww1: Malta (sovereign’s flag); ww1: Saint Lucia (sovereign’s flag); ww1: Saint Vincent and the Grenadines (sovereign’s flag); ww1: Antigua and Barbuda (sovereign’s flag); ww1: Grenada (sovereign’s flag); ww1: Saint Kitts and Nevis (sovereign’s flag); ww1: Montserrat (sovereign’s flag); ww1: Anguilla (sovereign’s flag); ww2: United Kingdom; ww2: Sudan (sovereign’s flag); ww2: Guyana (sovereign’s flag); ww2: Trucial Oman (sovereign’s flag); ww2: Malawi (sovereign’s flag); ww2: Ceylon (sovereign’s flag); ww2: Israel (sovereign’s flag); ww2: Belize (sovereign’s flag); ww2: Fiji (sovereign’s flag); ww2: Gambia, The (sovereign’s flag); ww2: Jamaica (sovereign’s flag); ww2: Trinidad (sovereign’s flag); ww2: Bahamas (sovereign’s flag); ww2: Dominica (sovereign’s flag); ww2: Barbados (sovereign’s flag); ww2: Saint Lucia (sovereign’s flag); ww2: Saint Vincent and the Grenadines (sovereign’s flag); ww2: Antigua and Barbuda (sovereign’s flag); ww2: Grenada (sovereign’s flag); ww2: Saint Kitts and Nevis (sovereign’s flag); ww2: Turks and Caicos Islands (sovereign’s flag); ww2: Montserrat (sovereign’s flag); ww2: Anguilla (sovereign’s flag); coldwar: Tanganyika (sovereign’s flag); coldwar: Zambia (sovereign’s flag); coldwar: Botswana (sovereign’s flag); coldwar: Kenya (sovereign’s flag); coldwar: United Kingdom; coldwar: Zimbabwe (sovereign’s flag); coldwar: Uganda (sovereign’s flag); coldwar: Guyana (sovereign’s flag); coldwar: Malawi (sovereign’s flag); coldwar: United Arab Emirates (sovereign’s flag); coldwar: Sierra Leone (sovereign’s flag); coldwar: Lesotho (sovereign’s flag); coldwar: Belize (sovereign’s flag); coldwar: Swaziland (sovereign’s flag); coldwar: Fiji (sovereign’s flag); coldwar: Gambia, The (sovereign’s flag); coldwar: Jamaica (sovereign’s flag); coldwar: Trinidad (sovereign’s flag); coldwar: Bahamas (sovereign’s flag); coldwar: Turks and Caicos Islands (sovereign’s flag); modern: United Kingdom |
 | flag-icons 7.6.0: gd.svg (Grenada) | MIT |  | modern: Grenada |
